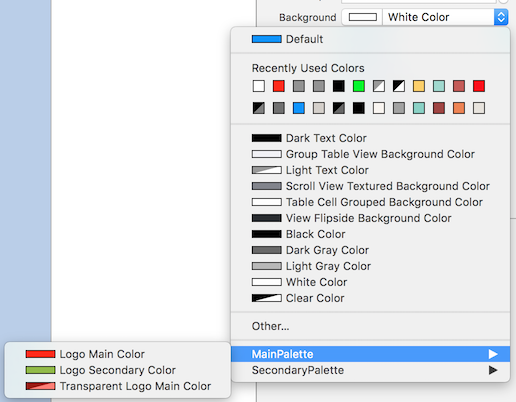
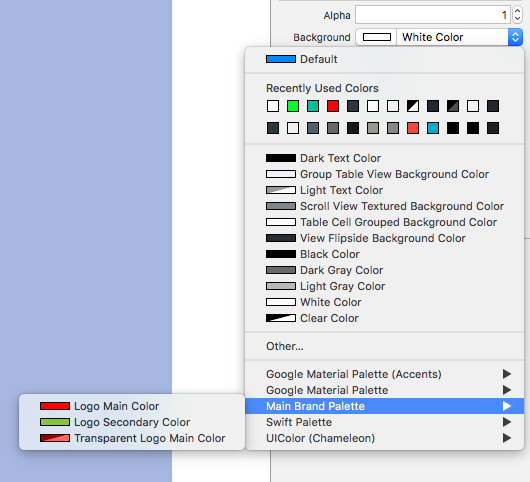
Update README

diff --git a/README.md b/README.md
@@ -31,9 +31,11 @@ To define a color, add a class method with any name that returns UIColor, for ex
 
 Only methods with no parameters are supported at the moment, and only UIColors in the RGB and White color space (so no `colorWithPatternImage:`)
 
-Look at the example project for more infos.
+You can then create a category/extension of you palette class, to create a separate palette with the same name plus the category name (look at `GooglePalette` and `GooglePalette+Accents` in the example project) 
 
-Categories/extensions are currently not supported, only colors defined in the main implementation.
+`UIColor` categories (like [Chameleon](https://github.com/ViccAlexander/Chameleon) will also generate palettes automatically.
+
+Look at the example project for more infos.
 
 ##Upcoming features
 * Colors validation (show IB warnings if using colors not defined in any palette)
@@ -49,6 +51,8 @@ Categories/extensions are currently not supported, only colors defined in the ma
 Either way, restart Xcode to make it load
 
 ##Release notes
+###1.1
+- You can now use categories/extensions for secondary palettes, and automatic UIColor palettes
 ###1.0
 - Initial Release
 - Code palettes for iOS
